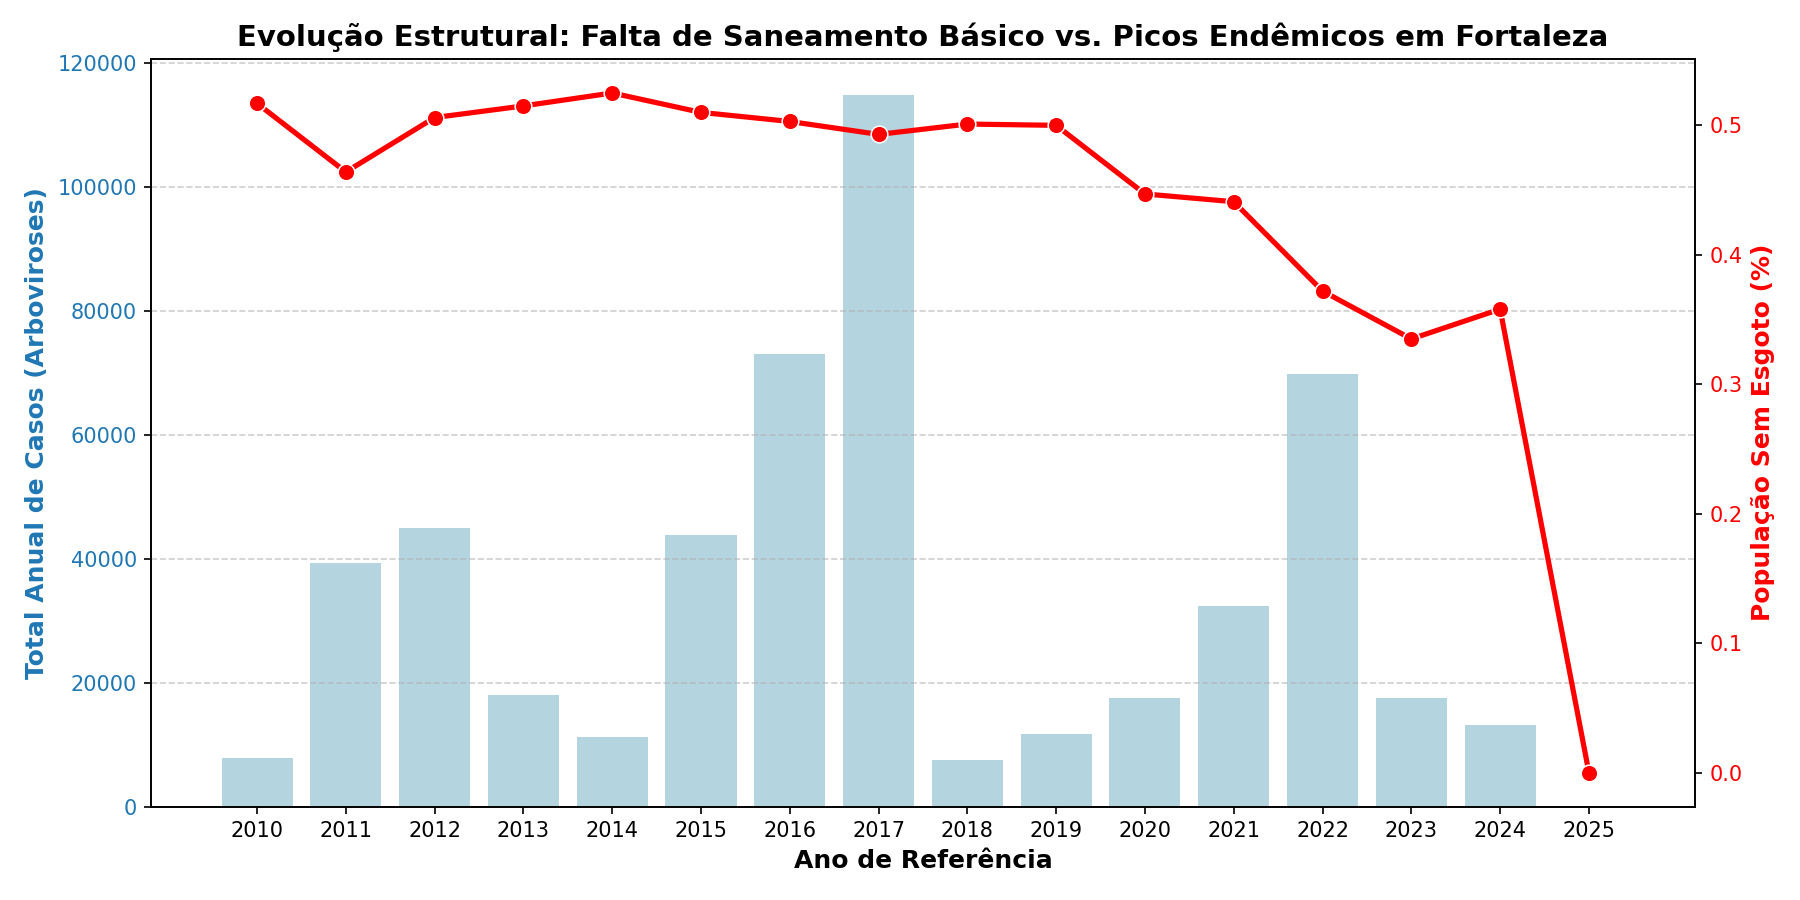
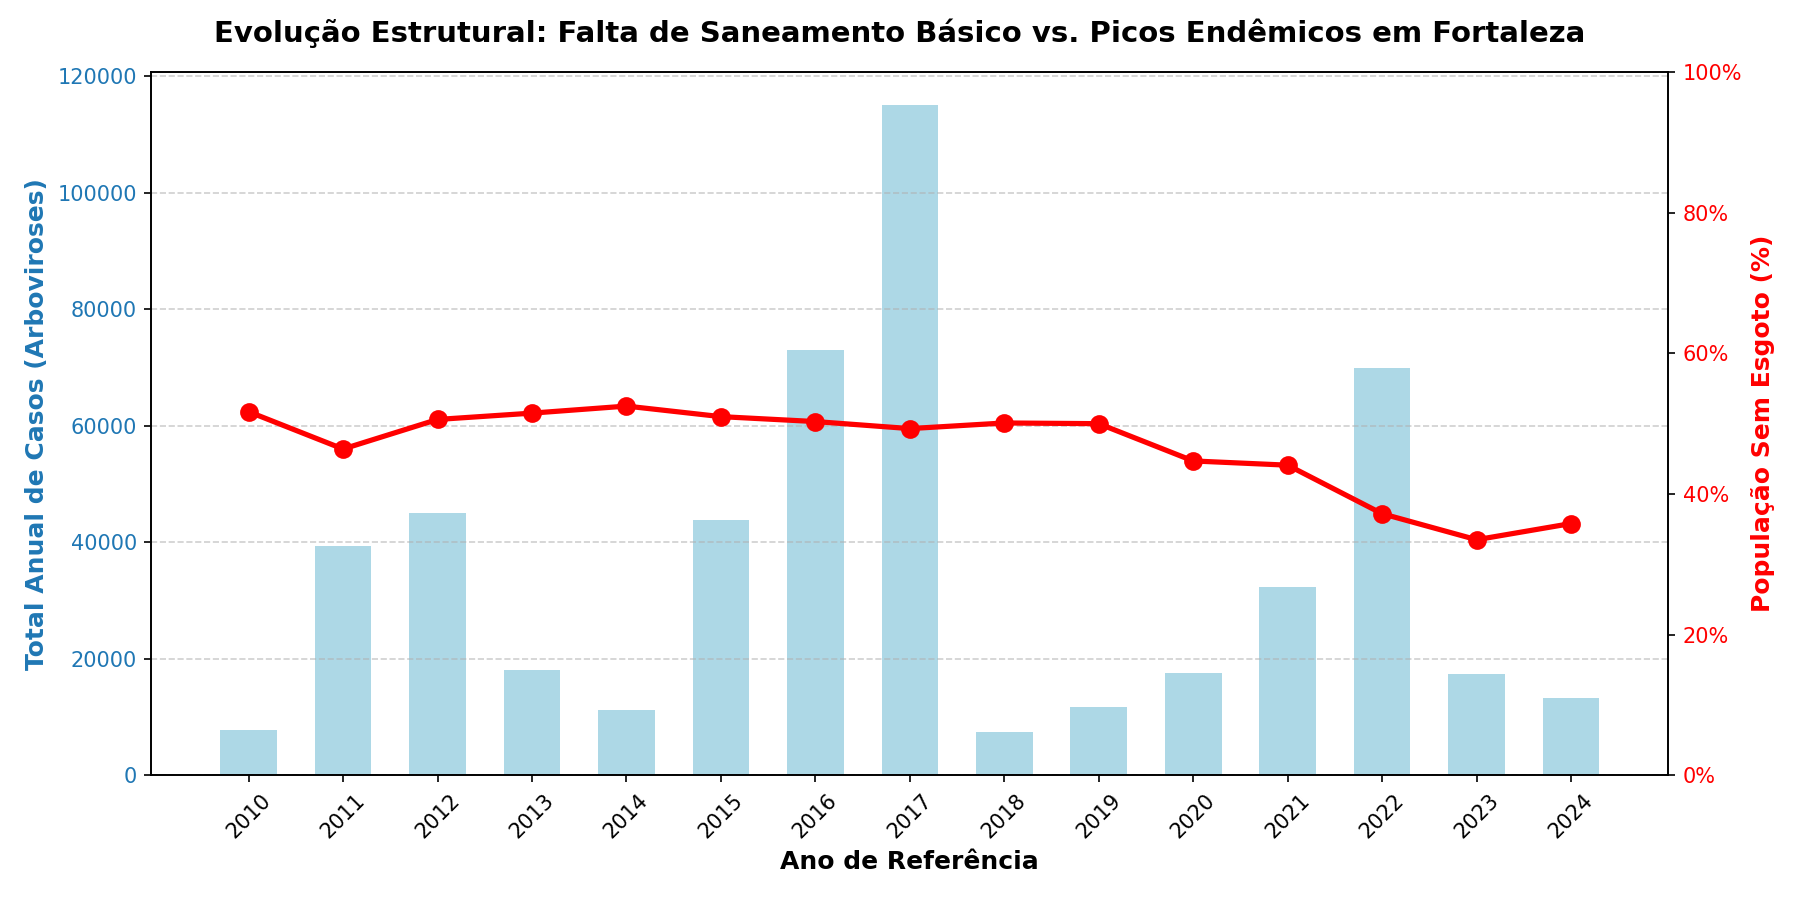
feat: gráfico de analise entre chuva anual e casos de arbovirose

diff --git a/src/analysis/climate_health_analysis.py b/src/analysis/climate_health_analysis.py
@@ -141,49 +141,84 @@ def trigger_analysis(df: pd.DataFrame) -> tuple[pd.DataFrame, dict[str, float]]:
 
 def plot_sanitation_analysis(df: pd.DataFrame) -> None:
     """
-    Cria gráfico com eixos duplos mostrando a relação entre:
-    - Casos anuais de arboviroses (barras)
-    - Percentual de população sem coleta de esgoto (linha)
+    Gera gráficos anuais mostrando:
+    - Total de casos de arboviroses por ano
+    - Volume anual de chuva (jan-dez) por ano
+    - Percentual médio anual de população sem coleta de esgoto
     """
-    # Preparar dados agrupados por ano
     aux = df.copy()
     aux["ano"] = aux["mes_referencia"].dt.year
-    
-    # Agrupar por ano: soma de casos e média do percentual
-    df_ano = aux.groupby("ano").agg({
+    aux = aux[aux["ano"].between(2010, 2024)]
+    if aux.empty:
+        raise ValueError("Não há dados de saneamento no intervalo de anos 2010-2024.")
+
+    df_ano = aux.groupby("ano", as_index=False).agg({
         "total_arboviroses": "sum",
-        "perc_sem_esgoto": "mean"
-    }).reset_index()
-    
-    # Converter para porcentagem (se necessário)
-    # Assumindo que perc_sem_esgoto já está em formato de percentual (0-100)
-    # Se estiver em decimal (0-1), descomente a linha abaixo:
-    # df_ano["perc_sem_esgoto"] = df_ano["perc_sem_esgoto"] * 100
-    
-    # Criar figura com eixos duplos
+        "chuva_acumulada": "sum",
+        "perc_sem_esgoto": "mean",
+    })
+
+    if df_ano["perc_sem_esgoto"].max() <= 1.0:
+        df_ano["perc_sem_esgoto"] = df_ano["perc_sem_esgoto"] * 100
+
+    anos = df_ano["ano"].to_numpy()
+    casos = df_ano["total_arboviroses"].to_numpy()
+    chuva = df_ano["chuva_acumulada"].to_numpy()
+    saneamento = df_ano["perc_sem_esgoto"].to_numpy()
+
+    # Gráfico 1: Casos x Chuva Anual
     fig, ax1 = plt.subplots(figsize=(12, 6))
-    
-    # Eixo 1 (Esquerda): Barras com total anual de casos
-    sns.barplot(data=df_ano, x="ano", y="total_arboviroses", color="lightblue", ax=ax1)
+    bar_width = 0.6
+    ax1.bar(anos, casos, width=bar_width, color="lightblue", label="Casos Anuais")
     ax1.set_xlabel("Ano de Referência", fontsize=12, fontweight="bold")
     ax1.set_ylabel("Total Anual de Casos (Arboviroses)", color="#1f77b4", fontsize=12, fontweight="bold")
     ax1.tick_params(axis="y", labelcolor="#1f77b4")
-    
-    # Eixo 2 (Direita): Linha com percentual sem esgoto
+    ax1.set_xticks(anos)
+    ax1.set_xticklabels(anos, rotation=45)
+
     ax2 = ax1.twinx()
-    sns.lineplot(data=df_ano, x=df_ano.index, y="perc_sem_esgoto", color="red", marker="o", linewidth=2.5, markersize=8, ax=ax2)
+    ax2.plot(anos, chuva, color="darkblue", marker="o", linewidth=2.5, markersize=8, label="Chuva Anual")
+    ax2.set_ylabel("Chuva Acumulada Anual (mm)", color="darkblue", fontsize=12, fontweight="bold")
+    ax2.tick_params(axis="y", labelcolor="darkblue")
+
+    fig.suptitle(
+        "Gatilho Climático: Volume Anual de Chuvas vs. Surtos Endêmicos em Fortaleza",
+        fontsize=14,
+        fontweight="bold",
+    )
+    ax1.grid(axis="y", linestyle="--", alpha=0.6)
+    fig.tight_layout()
+    fig.subplots_adjust(top=0.92)
+    fig.savefig(OUTPUT_DIR / "chuva_anual_casos_analise.png", dpi=150)
+    plt.close(fig)
+
+    # Gráfico 2: Casos x Saneamento
+    fig, ax1 = plt.subplots(figsize=(12, 6))
+    ax1.bar(anos, casos, width=bar_width, color="lightblue", label="Casos Anuais")
+    ax1.set_xlabel("Ano de Referência", fontsize=12, fontweight="bold")
+    ax1.set_ylabel("Total Anual de Casos (Arboviroses)", color="#1f77b4", fontsize=12, fontweight="bold")
+    ax1.tick_params(axis="y", labelcolor="#1f77b4")
+    ax1.set_xticks(anos)
+    ax1.set_xticklabels(anos, rotation=45)
+
+    ax2 = ax1.twinx()
+    ax2.plot(anos, saneamento, color="red", marker="o", linewidth=2.5, markersize=8, label="População Sem Esgoto (%)")
     ax2.set_ylabel("População Sem Esgoto (%)", color="red", fontsize=12, fontweight="bold")
     ax2.tick_params(axis="y", labelcolor="red")
-    
-    # Configurar título e grid
-    plt.title("Evolução Estrutural: Falta de Saneamento Básico vs. Picos Endêmicos em Fortaleza", 
-              fontsize=14, fontweight="bold")
+    ax2.set_ylim(0, max(100, saneamento.max() * 1.05))
+    ax2.set_yticks([0, 20, 40, 60, 80, 100])
+    ax2.set_yticklabels(["0%", "20%", "40%", "60%", "80%", "100%"])
+
+    fig.suptitle(
+        "Evolução Estrutural: Falta de Saneamento Básico vs. Picos Endêmicos em Fortaleza",
+        fontsize=14,
+        fontweight="bold",
+    )
     ax1.grid(axis="y", linestyle="--", alpha=0.6)
-    
-    # Ajustar layout e salvar
-    plt.tight_layout()
-    plt.savefig(OUTPUT_DIR / "saneamento_casos_esgoto_analise.png", dpi=150)
-    plt.close()
+    fig.tight_layout()
+    fig.subplots_adjust(top=0.92)
+    fig.savefig(OUTPUT_DIR / "saneamento_casos_esgoto_analise.png", dpi=150)
+    plt.close(fig)
 
 
 def save_plots(df: pd.DataFrame, corr: pd.DataFrame, lag_df: pd.DataFrame) -> None:
